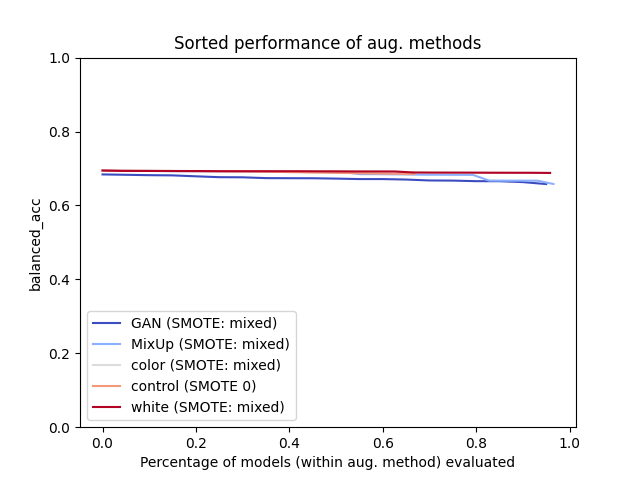
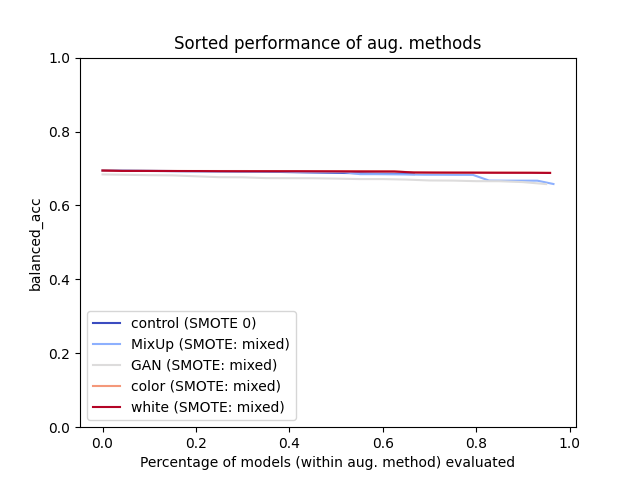
s

Changed region(s): [[0.1562, 0.3438, 0.8438, 0.4062], [0.1875, 0.75, 0.4375, 0.8125], [0.1875, 0.6562, 0.4375, 0.6875]]

diff --git a/evaluation/ensemble_results.py b/evaluation/ensemble_results.py
@@ -393,6 +393,7 @@ class getResultsEnsemble:
 
         for a, artifact in enumerate(artifacts):
             techniques = np.unique(bestDict['technique'][artifact])
+            techniques = np.array(['control', 'MixUp', 'GAN', 'color', 'white'])
             for i, technique in enumerate(techniques):
                 if technique == "control":
                     smote_ratio_old = smote_ratio
@@ -790,6 +791,18 @@ if __name__ == '__main__':
         for i in ensembleExp.folds:
             y_true_art.append(results_y_true[i][artifact]['y_true'])
         y_true_dict[artifact] = y_true_art
+
+    fold_art_table = np.zeros((5, 6))
+
+    for fold in ensembleExp.folds:
+        for i, artifact in enumerate(ensembleExp.artifacts):
+            present = y_true_dict[artifact][fold].sum()
+            all = len(y_true_dict[artifact][fold])
+
+            fold_art_table[fold, i] = present / all
+
+    df = pd.DataFrame(np.round(fold_art_table, 4) * 100, columns=ensembleExp.artifacts, index=np.arange(5) + 1)
+    print(df.to_latex())
 
     # The input should be a list of models, a list of aug_ratios for each model and a list of smote_ratios for each
     # model. For future experiments it should take a list with augmentation_techniques in as well.

diff --git a/evaluation/statistics.py b/evaluation/statistics.py
@@ -6,9 +6,6 @@ import statsmodels
 from sklearn.metrics import confusion_matrix
 
 
-
-
-
 def error_rate1(y_true, y_pred):
     # balanced accuracy
     score = balanced_accuracy_score(y_true, y_pred)
@@ -115,7 +112,7 @@ if __name__ == '__main__':
     #error rate 1(simple) or error rate 2(the nn scores) (comment: 2 is just accuracy)
     er1 = True
 
-    methods = ["colorNoise", "whiteNoise", "GAN", "MixUp"]
+    methods = ["MixUp", "GAN", "whiteNoise", "colorNoise"]
     #methods = ["MixUp", "GAN", "whiteNoise", "colorNoise"] # In line with report setup
     #methods = ['MixUp', "GAN"] # fast run
 
@@ -205,7 +202,7 @@ if __name__ == '__main__':
 
 
         #activating improvement
-        improvement = method + "_improvement"
+        improvement = method + "improvement"
         improvement_name = "_" + improvement + "_merged_allModels"
         obj_improv = getResults(dir, improvement, improvement_name, merged_file=True, windowsOS=windowsOS)
 
